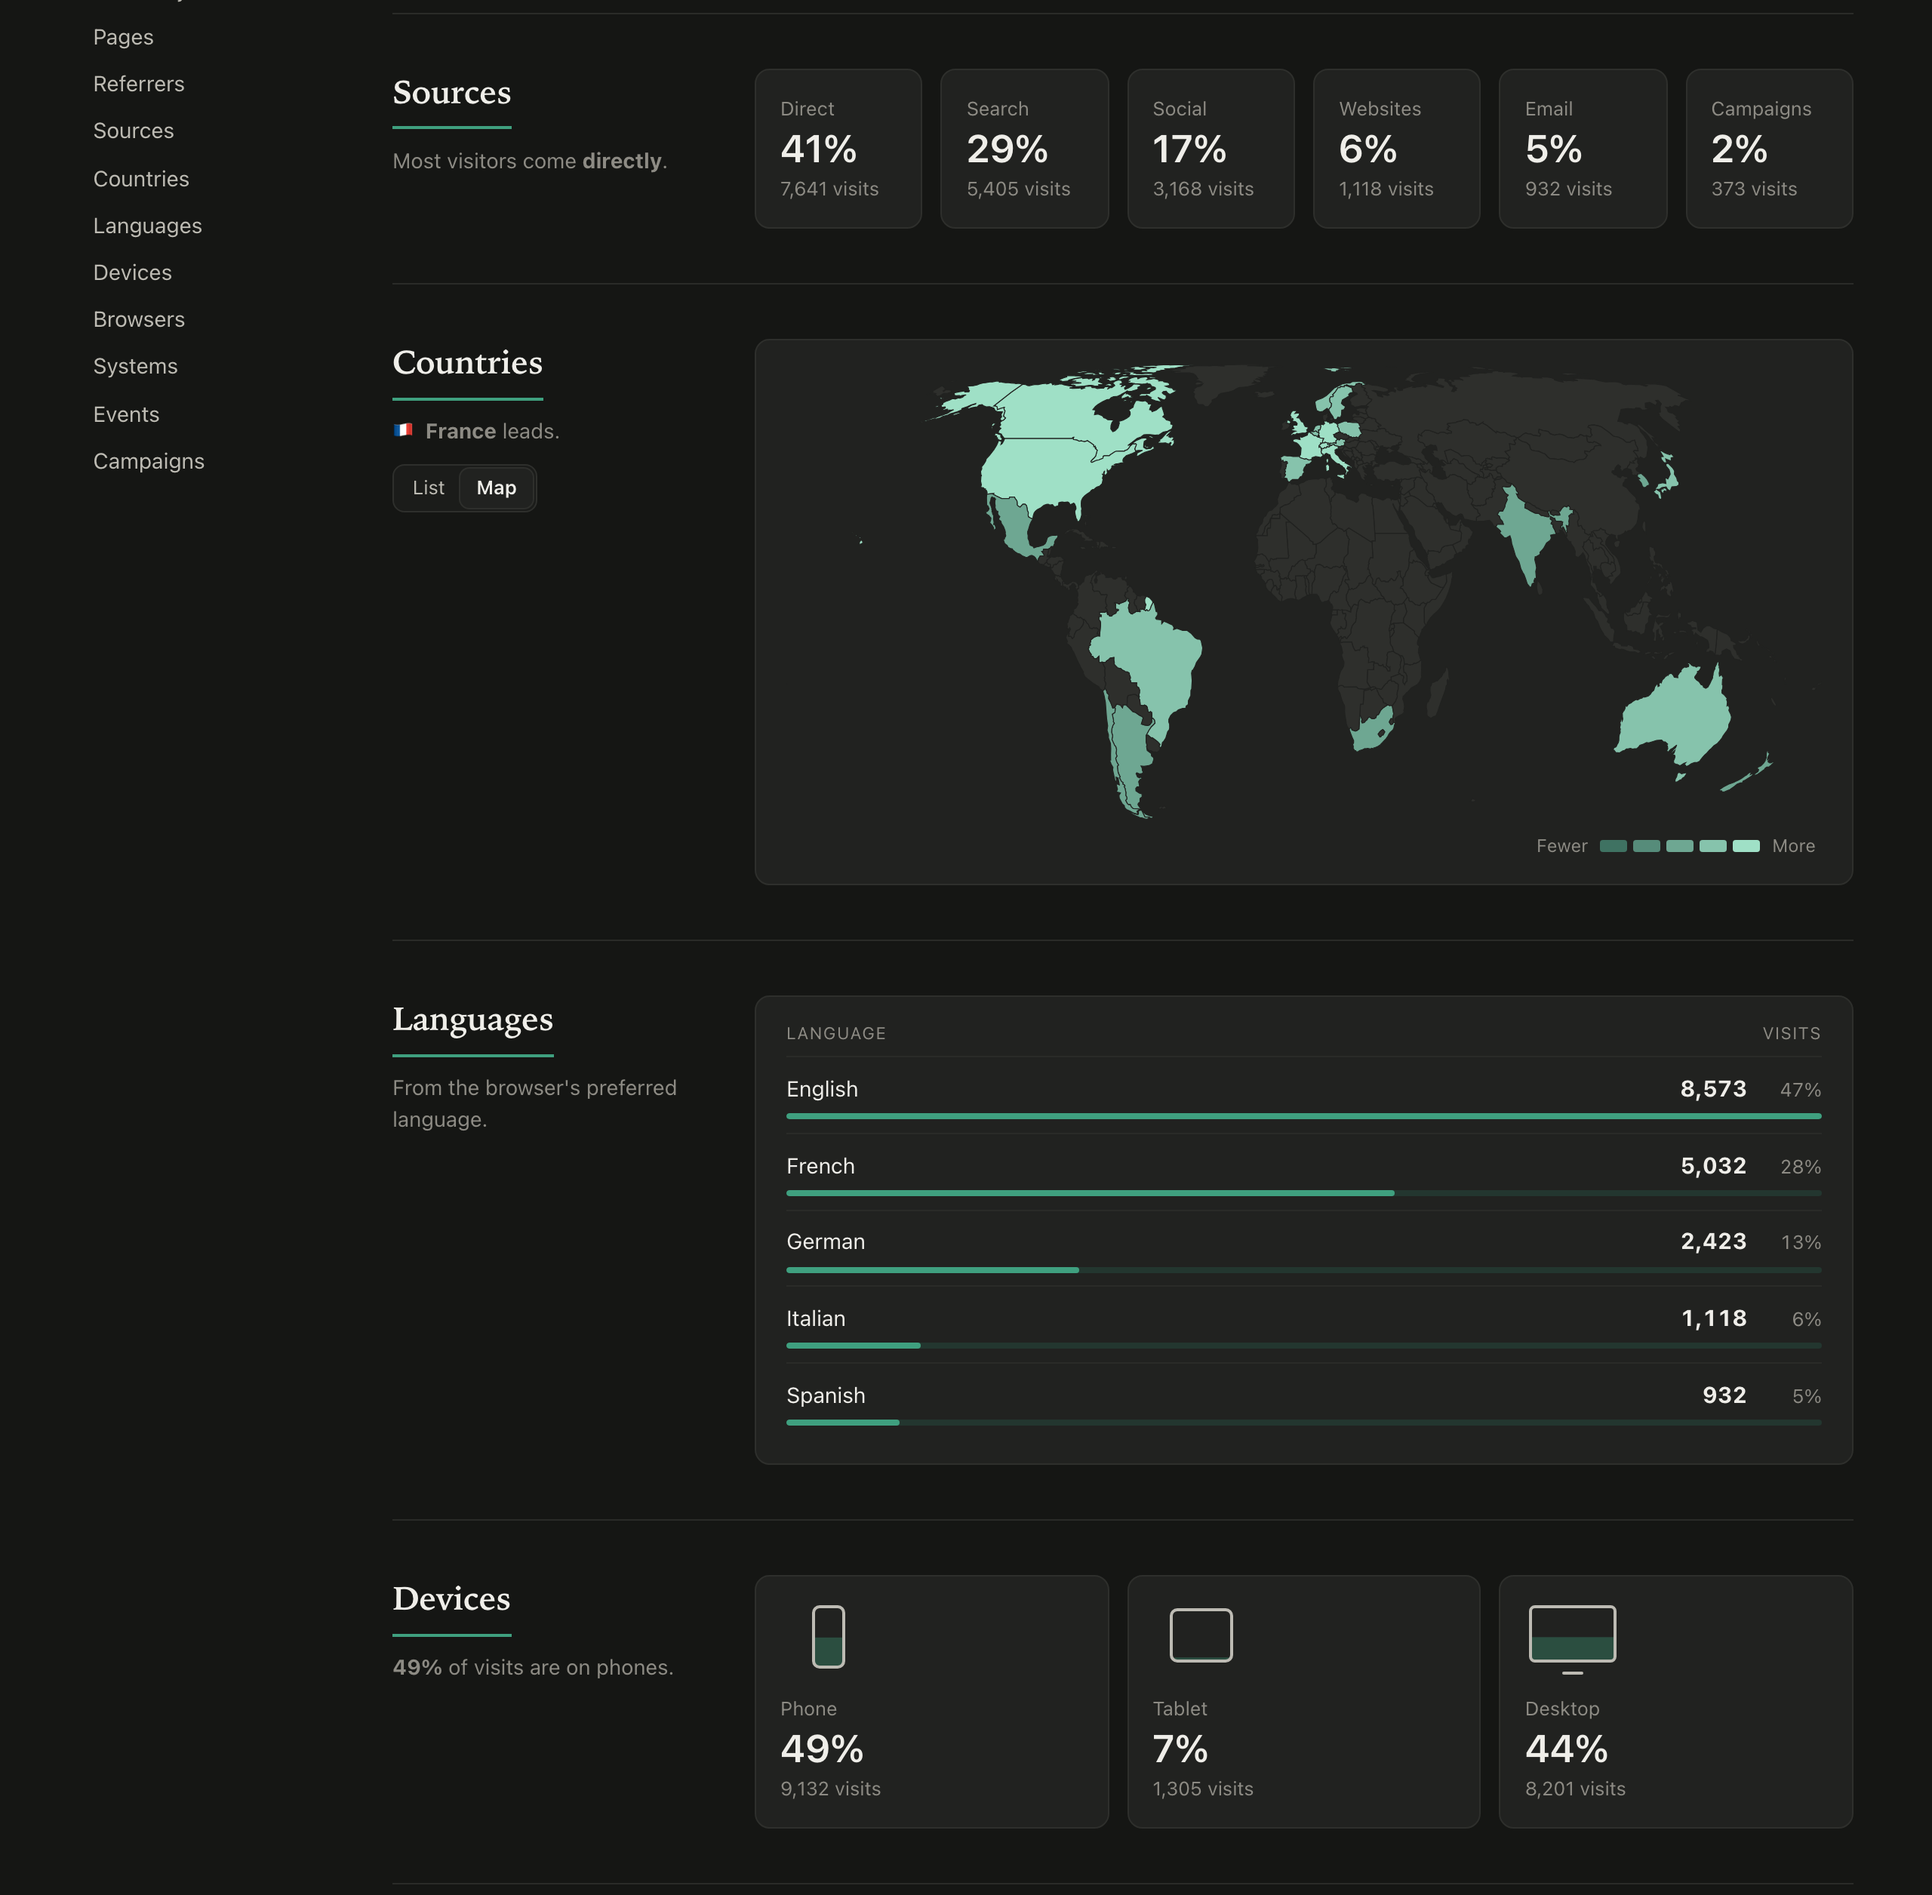
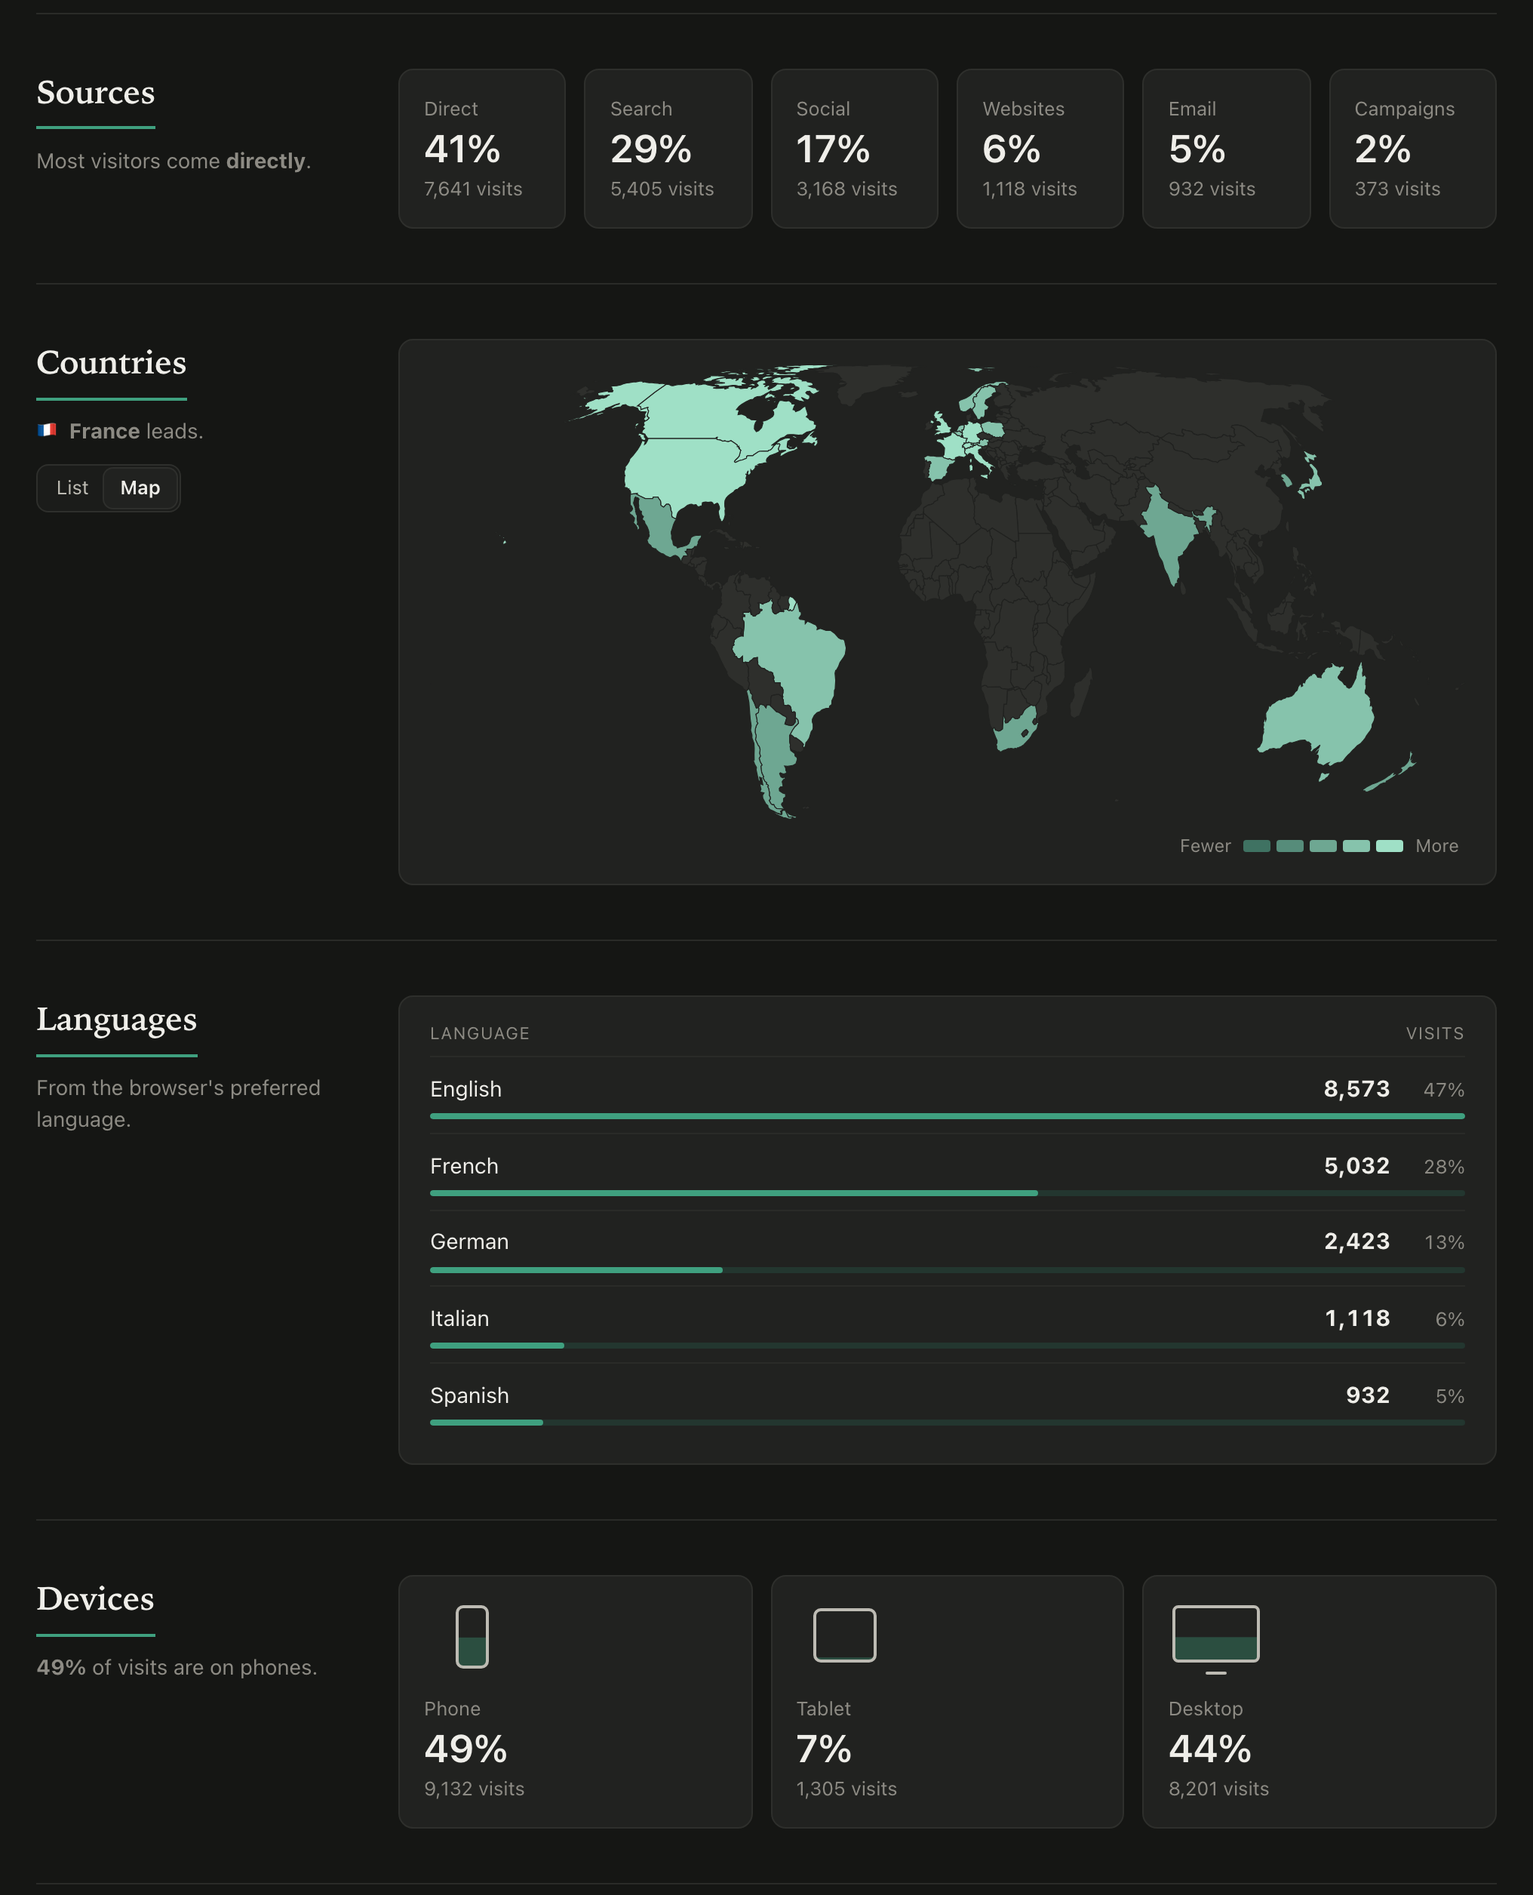
docs: crop the sections screenshot to the sections
Claude-Session: https://claude.ai/code/session_01Mnb1KEJfymwhWFTpMvMSez

diff --git a/e2e/screenshots.spec.ts b/e2e/screenshots.spec.ts
@@ -26,7 +26,13 @@ for (const scheme of ['light', 'dark'] as const) {
       await page.screenshot({
         path: `docs/sections-${scheme}.png`,
         fullPage: true,
-        clip: { x: 0, y: sources.y + (await page.evaluate(() => window.scrollY)) - 8, width: 1280, height: devices.y + devices.height - sources.y + 16 },
+        // The sections only, without the side menu
+        clip: {
+          x: sources.x - 24,
+          y: sources.y + (await page.evaluate(() => window.scrollY)) - 8,
+          width: sources.width + 48,
+          height: devices.y + devices.height - sources.y + 16,
+        },
       })
     }
   })
